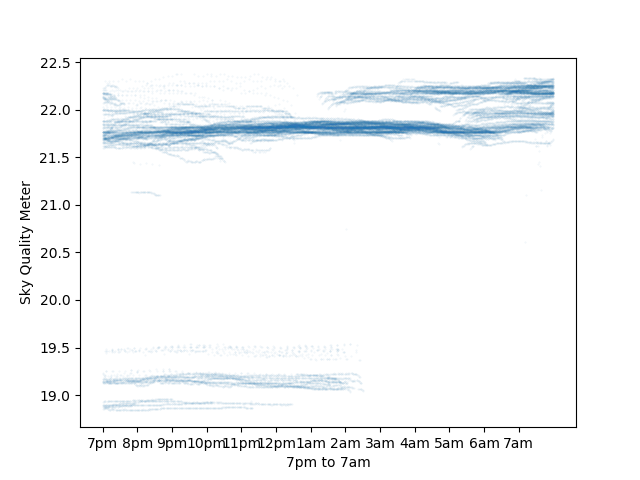
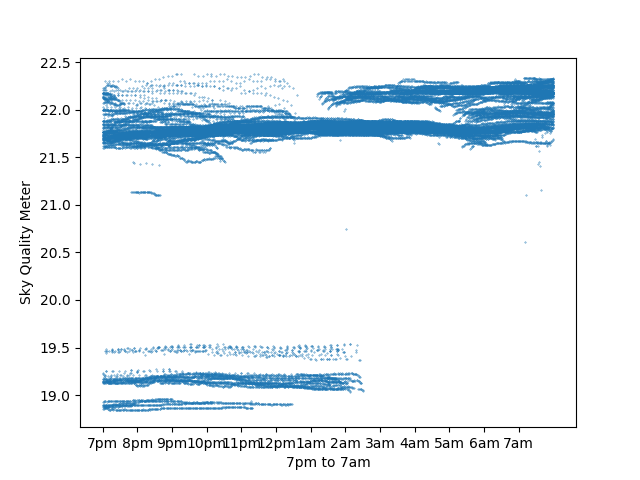
Dos rangos, dos colores

Changed region(s): [[0.1562, 0.1562, 0.875, 0.3438], [0.1562, 0.7188, 0.5625, 0.875], [0.2188, 0.375, 0.25, 0.4062]]

diff --git a/plot1.py b/plot1.py
@@ -1,7 +1,3 @@
-# s = '9:'
-# n = int(s[0:4])
-# print n
-
 #!/usr/bin/python
 import WeatherStatistics as WS
 import numpy as np
@@ -15,46 +11,32 @@ import datetime
 import pymysql.cursors
 import ephemerids
 
+colors = [
+'r', 'y', 'b', 'greenyellow', 'c', 'g', 'black', \
+'r', 'y', 'b', 'greenyellow', 'c', 'g', 'black', \
+'r', 'y', 'b', 'greenyellow', 'c', 'g', 'black', \
+'r', 'y', 'b', 'greenyellow', 'c', 'g', 'black', \
+'gray', 'gray', 'gray'] # 31 days
+
 [db_cursor, database] = WS.db_connect()
 search = "SELECT `UTC`, `sqm` FROM `weather` WHERE \
-(`SunElevation` < -15 AND `MoonElevation` < -5 AND \
-`UTC` <= '2018-12-01 00:00:00' AND `UTC` >= '2017-05-26 00:00:00' AND\
-`weatherstatus`= 'Go Science!') ORDER BY `UTC` ASC LIMIT 1000000"
-# search = "SELECT `UTC`, `sqm` FROM `weather` WHERE \
-# `UTC` <= '2017-07-15 00:00:00' AND `UTC` >= '2017-00-00 00:00:00' AND\
-# (`SunElevation` < -15 AND \
-# `weatherstatus`= 'Go Science!') ORDER BY `UTC` ASC LIMIT 150000"
+ `UTC` >= '2017-04-28 19:00:00' AND `UTC` <= '2018-04-28 07:00:00' AND\
+`SunElevation` < -15 AND `MoonElevation` < -5 AND \
+`weatherstatus`= 'Go Science!' ORDER BY `UTC` ASC LIMIT 1000000"
+
 db_cursor.execute(search)
 res = db_cursor.fetchall()
 print "From ", res[0], " to ", res[-1]
 y = []
 x = []
-prevDay = int(res[0][0][8:10])
+x2 = []
+y2 = []
+#prevDay = int(res[0][0][8:10])
 counter = 0
-colors = ['r', 'y', 'b', 'black', 'c', 'g', 'greenyellow', \
-'r', 'y', 'b', 'black', 'c', 'g', 'greenyellow', \
-'r', 'y', 'b', 'black', 'c', 'g', 'greenyellow', \
-'r', 'y', 'b', 'black', 'c', 'g', 'greenyellow', \
-'gray', 'gray', 'gray'] # 31 days
 for e in res:
     counter += 1
-    day = int(e[0][8:10])
-    if day > prevDay:
-        prevDay = day
-        color = colors[day - 1]
-        plt.scatter(x, y, 0.2, c=color, alpha=1)
-        x = []
-        y = []
-
-    # print e[1]
-    # print len(e[0])
-    # month = int(e[0][5:7])
-    # print month
-    # if month > 3 and month < 10:
-    #     color = 'b'
-    # else:
-    #     color = 'r'
     UTCObstech = -4
+    day = int(e[0][8:10])
     hour = UTCObstech + int(e[0][11:13]) + 24 # para siempre trabajar solo con positivos incluso sumando UTC-23
     minute = int(e[0][14:16])
     second = int(e[0][17:19])
@@ -65,42 +47,35 @@ for e in res:
         # print minute
         # print second
         # print t
-        x.append(t)
-        y.append(e[1])
+        if day >= 15:
+            x.append(t)
+            y.append(e[1])
+        else:
+            x2.append(t)
+            y2.append(e[1])
     elif hour <= 7 + 24:
-        x.append(t + 24*60*60)
-        y.append(e[1])
+        if day >= 15:
+            x.append(t + 24*60*60)
+            y.append(e[1])
+        else:
+            x2.append(t + 24*60*60)
+            y2.append(e[1])
+
+plt.scatter(x, y, 0.3, c='b', alpha=0.5)
+plt.scatter(x2, y2, 0.3, c='r', alpha=0.5)
+
+    # day = int(e[0][8:10])
+    # if day > prevDay:
+    #     prevDay = day
+    #     color = colors[day - 1]
+    #     plt.scatter(x, y, 0.3, c=color, alpha=1)
+    #     x = []
+    #     y = []
 
 print "There are " + str(counter) + " data points."
 
-# y_temp = []
-# x_temp = []
-# counter = 0
-# chunksize = 1 # OJO! LIMIT debe ser divisible entero por chunksize
-# for e in res:
-#     #print e[2]
-#     y_temp.append(e[2])
-#     counter += 1
-#     #print counter
-#     if counter == chunksize:
-#         counter = 0
-#         sum = 0
-#         for i in y_temp:
-#             #print i
-#             sum += float(i)
-#             #print sum
-#         average = float(sum) / chunksize
-#         for i in range(chunksize):
-#             y.append(average)
-#             x.append(i)
-#
-#         y_temp = []
-#         #print y
-#         #print x
-#
 plt.title('UTC-4 sun:-15 moon:-5')
 plt.ylabel('Sky Quality Meter')
-plt.xlabel('7pm to 7am')
 # ticks = ['19:00:00','20:00:00','21:00:00','22:00:00','23:00:00','24:00:00', \
 # '25:00:00','26:00:00','27:00:00','28:00:00','29:00:00','30:00:00','31:00:00']
 ticks = [(24+19)*60*60, (24+20)*60*60, (24+21)*60*60, (24+22)*60*60, (24+23)*60*60, (24+24)*60*60, (24+25)*60*60, \

diff --git a/plot2.py b/plot2.py
@@ -18,8 +18,8 @@ import ephemerids
 [db_cursor, database] = WS.db_connect()
 search = "SELECT `UTC`,`SiderealTime`,`sqm` FROM `weather` WHERE \
 `UTC` <= '2018-04-28 07:00:00' AND `UTC` >= '2017-04-28 19:00:00' AND\
-(`SunElevation` < -15 AND `MoonElevation` < -5 AND \
-`weatherstatus`= 'Go Science!') ORDER BY `UTC` ASC LIMIT 150000"
+`SunElevation` < -15 AND `MoonElevation` < -5 AND \
+`weatherstatus`= 'Go Science!' ORDER BY `UTC` ASC LIMIT 150000"
 db_cursor.execute(search)
 res = db_cursor.fetchall()
 print "From ", res[0], " to ", res[-1]
@@ -80,7 +80,6 @@ for e in res:
 #
 plt.scatter(x, y, 0.1, alpha=1)
 plt.ylabel('Sky Quality Meter')
-plt.xlabel('7pm to 7am')
 # ticks = ['19:00:00','20:00:00','21:00:00','22:00:00','23:00:00','24:00:00', \
 # '25:00:00','26:00:00','27:00:00','28:00:00','29:00:00','30:00:00','31:00:00']
 ticks = [19*60*60, 20*60*60, 21*60*60, 22*60*60, 23*60*60, 24*60*60, 25*60*60, \
